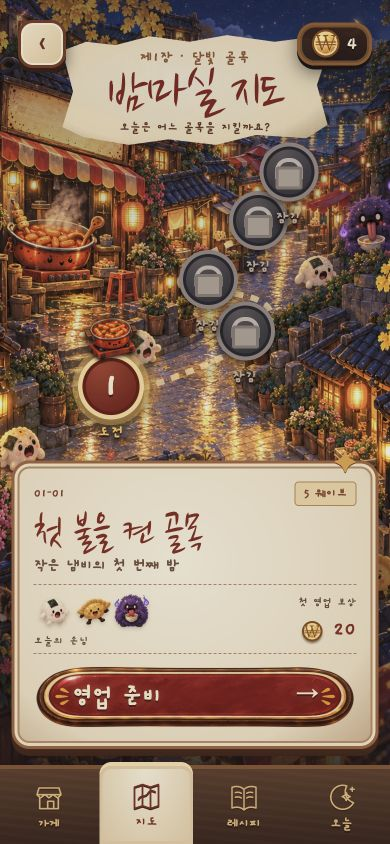
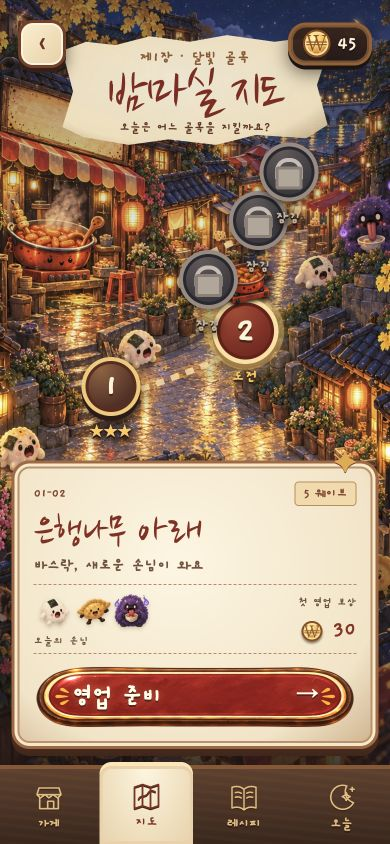
Polish compact layouts and capture gameplay validation

diff --git a/src/scenes/LabScene.ts b/src/scenes/LabScene.ts
@@ -19,7 +19,7 @@ export class LabScene extends Phaser.Scene {
   constructor() { super('Lab'); }
   create() {
     setupCamera(this);
-    const { root } = mountScreen(this, `<img class="screen-bg" src="${asset('ui/lab.webp')}" alt=""><div class="lab-shade"></div><header class="screen-header"><button class="round-button" data-action="back" aria-label="${L('뒤로', 'Back')}">←</button><span class="wallet">${coin(save.gems)}</span></header><div class="page-heading light"><p class="overline">${L('한 그릇에 담긴 노하우', 'A LITTLE BETTER, EVERY NIGHT')}</p><h1>${L('비밀 레시피', 'Secret recipes')}</h1></div><div class="lab-hero"><div><p>${L('수호 냄비', 'GUARDIAN POT')}</p><h2>Lv. ${potLevel(save.xp)}</h2><div class="xp-track"><span style="width:${save.xp % 200 / 2}%"></span></div><small>${save.xp % 200} / 200 XP</small></div></div><section class="recipe-ledger paper"><div class="ledger-header"><h2>${L('냄비 성장', 'Pot upgrades')}</h2><span>${L('영구 적용', 'PERMANENT')}</span></div><p class="ledger-note">${L('영업이 끝나도, 실력은 남아요.', 'Your recipes stay with you after every run.')}</p><div class="upgrade-list"></div><p class="purchase-status" role="status" aria-live="polite"></p><button class="primary" data-action="play">${L('영업하러 가기', 'Back to business')} <span>→</span></button></section>${nav('Lab')}`, 'lab-screen');
+    const { root } = mountScreen(this, `<img class="screen-bg" src="${asset('ui/lab.webp')}" alt=""><div class="lab-shade"></div><header class="screen-header"><button class="round-button" data-action="back" aria-label="${L('뒤로', 'Back')}">←</button><span class="wallet">${coin(save.gems)}</span></header><div class="page-heading light"><p class="overline">${L('한 그릇에 담긴 노하우', 'NIGHTLY NOTES')}</p><h1>${L('비밀 레시피', 'Secret recipes')}</h1></div><div class="lab-hero"><div><p>${L('수호 냄비', 'GUARDIAN POT')}</p><h2>Lv. ${potLevel(save.xp)}</h2><div class="xp-track"><span style="width:${save.xp % 200 / 2}%"></span></div><small>${save.xp % 200} / 200 XP</small></div></div><section class="recipe-ledger paper"><div class="ledger-header"><h2>${L('냄비 성장', 'Pot upgrades')}</h2><span>${L('영구 적용', 'PERMANENT')}</span></div><p class="ledger-note">${L('영업이 끝나도, 실력은 남아요.', 'Your recipes stay with you after every run.')}</p><div class="upgrade-list"></div><p class="purchase-status" role="status" aria-live="polite"></p><button class="primary" data-action="play">${L('영업하러 가기', 'Back to business')} <span>→</span></button></section>${nav('Lab')}`, 'lab-screen');
     bind(root, 'back', () => this.scene.start('Menu')); bind(root, 'play', () => this.scene.start('Stages')); bindNav(this, root);
     const refresh = () => {
       root.querySelector('.wallet')!.innerHTML = coin(save.gems);

diff --git a/src/scenes/StageScene.ts b/src/scenes/StageScene.ts
@@ -13,7 +13,7 @@ export class StageScene extends Phaser.Scene {
     this.selected = STAGES.find(s => !save.stages[s.id])?.id ?? 5;
     const { root } = mountScreen(this, `<img class="screen-bg" src="${asset('ui/map.webp')}" alt=""><div class="map-shade"></div>
       <header class="screen-header"><button class="round-button" data-action="back" aria-label="${L('가게로 돌아가기', 'Back to shop')}">‹</button><span class="wallet">${coin(save.gems)}</span></header>
-      <div class="page-heading light"><p class="overline">${L('제1장 · 달빛 골목', 'CHAPTER 01 · MOONLIT ALLEYS')}</p><h1>${L('밤마실 지도', 'The night map')}</h1><p>${L('오늘은 어느 골목을 지킬까요?', 'Which little alley needs you tonight?')}</p></div>
+      <div class="page-heading light"><p class="overline">${L('제1장 · 달빛 골목', 'CHAPTER 01')}</p><h1>${L('밤마실 지도', 'The night map')}</h1><p>${L('오늘은 어느 골목을 지킬까요?', 'Which little alley needs you tonight?')}</p></div>
       <div class="stage-map"><svg class="map-path" viewBox="0 0 100 100" preserveAspectRatio="none" aria-hidden="true"><path d="M25 74 C39 69 51 66 65 58 S73 43 54 43 S51 31 69 26 S79 17 78 12"/></svg>${STAGES.map(s => { const open = stageUnlocked(s.id, save.stages); return `<button class="stage-node ${open ? '' : 'locked'}" style="left:${s.x}%;top:${s.y}%" data-stage="${s.id}" ${open ? '' : 'disabled'} aria-label="${s.id}. ${s.name}${open ? '' : L(' · 이전 골목 클리어 필요', ' · Complete the previous alley')}" aria-pressed="false"><span class="node-pot">${artIcon('pot')}</span><span class="node-circle">${open ? s.id : ''}</span><span class="node-stars">${save.stages[s.id] ? '★'.repeat(save.stages[s.id]) + '☆'.repeat(3 - save.stages[s.id]) : open ? L('도전', 'PLAY') : L('잠김', 'LOCKED')}</span></button>`; }).join('')}</div>
       <section class="stage-detail paper" aria-live="polite"></section>${nav('Stages')}`, 'stage-screen');
     bind(root, 'back', () => this.scene.start('Menu')); bindNav(this, root);

diff --git a/src/style-polish.css b/src/style-polish.css
@@ -291,7 +291,7 @@ button:focus-visible { outline: 3px solid #ffd56d; outline-offset: 3px; }
 .results-overlay .paper-button { font-size:17px; }
 @keyframes pot-bob { 0%,100% { transform:translateY(0) rotate(-3deg); } 50% { transform:translateY(-5px) rotate(3deg); } }
 @media (max-height:720px) {
-  .title-block { top:4%; }
+  .title-block { top:9%; }
   .title-block h1 { font-size: clamp(56px,10vh,80px); }
   .title-sub { font-size:15px; }
   .stage-screen .page-heading,.lab-screen .page-heading { min-height:73px; padding:8px; margin-top:-46px; }
@@ -308,14 +308,20 @@ button:focus-visible { outline: 3px solid #ffd56d; outline-offset: 3px; }
   .bottom-nav button { font-size:11px; }
   .bottom-nav .nav-glyph { height:27px; }
   .bottom-nav .nav-glyph svg { width:26px; height:26px; }
-  .lab-hero { top:26%; padding:4px 8px; }
-  .lab-hero h2 { font-size:32px; }
+  .lab-hero { top:23%; padding:3px 7px; }
+  .lab-hero p { font-size:12px; }
+  .lab-hero h2 { font-size:28px; }
+  .lab-hero small { font-size:11px; }
+  .lab-hero .xp-track { height:9px; }
   .recipe-ledger { top:40%; bottom:67px; padding:13px 14px 10px; }
   .ledger-header h2 { font-size:28px; }
   .ledger-note { font-size:12px; }
   .upgrade-row { min-height:65px; }
   .upgrade-copy h3 { font-size:18px; }
   .upgrade-copy p { font-size:12px; }
+  html[lang=en] .upgrade-copy h3 { font-size:16px; }
+  html[lang=en] .upgrade-copy small { font-size:11px; }
+  html[lang=en] .upgrade-copy p { font-size:11px; }
   .upgrade-buy { min-width:61px; }
   .recipe-ledger > .primary { min-height:43px; font-size:19px; }
   .overlay-paper { padding:16px 19px; }

diff --git a/src/main.ts b/src/main.ts
@@ -13,6 +13,9 @@ import { StageScene } from './scenes/StageScene';
 import { LabScene } from './scenes/LabScene';
 import { setupNative } from './native';
 import { sfx } from './audio';
+import { lang } from './i18n';
+
+document.documentElement.lang = lang;
 
 const game = new Phaser.Game({
   type: Phaser.AUTO,

diff --git a/docs/validation.md b/docs/validation.md
@@ -2,10 +2,10 @@
 
 - Node 24에서 `npm run build` 성공 (TypeScript 검사 포함).
 - `npm test`: 4개 테스트 통과. 구버전 저장 마이그레이션, 손상 데이터, 다음 골목 잠금, 최초 보상 중복 방지, 별/레벨 경계값.
-- 브라우저 실제 UI로 메뉴 → 지도 → 첫 골목 5웨이브 완료 → 별 3개, 엽전 41, XP 232, 냄비 Lv.2 → 2번 골목 해금 확인.
+- 브라우저 실제 UI로 메뉴 → 지도 → 첫 골목 5웨이브 완료 → 별 3개, 엽전 41, XP 194 획득 → 2번 골목 해금 확인. 앞선 시험 플레이의 XP가 합산되어 냄비가 Lv.2가 됨.
 - 레시피 선택 후 공격 수치 증가 확인. 2배속 플레이 확인.
-- 매운맛 강화 구매: 엽전 41 → 33, 강화 Lv.0 → Lv.1. 페이지 새로고침 후 잔액/강화/냄비 레벨 유지 확인.
-- 390×844 한국어 메뉴/지도/성장/선택/결과 UI, 320×568 영어 성장 UI 확인.
+- 매운맛 강화 구매: 엽전 8개 사용, 강화 Lv.0 → Lv.1. 페이지 새로고침 후 잔액/강화/냄비 레벨 유지 확인.
+- 390×844 한국어 메뉴/지도/성장/선택/전투/결과 UI와 320×568 영어 메뉴/지도/성장 UI 확인. 영문 상단 문구가 잔액 표시와 겹치지 않도록 조정함.
 - 웹 실행 중 수집한 오류 로그 없음.
 
 아래 이미지는 생성 시안이 아닌 실제 구현 화면의 캡처입니다.
@@ -14,8 +14,8 @@
 | --- | --- | --- |
 | ![메뉴](screenshots/menu.png) | ![스테이지](screenshots/stages.png) | ![성장](screenshots/growth.png) |
 
-| 레시피 선택 | 실제 클리어 결과 |
-| --- | --- |
-| ![선택](screenshots/recipe-choice.png) | ![결과](screenshots/results.png) |
+| 레시피 선택 | 실제 전투 | 실제 클리어 결과 |
+| --- | --- | --- |
+| ![선택](screenshots/recipe-choice.png) | ![전투](screenshots/combat.png) | ![결과](screenshots/results.png) |
 
 네이티브 기기 빌드/서명과 3~5번 골목의 장시간 밸런스 검증은 이번 웹 검증 범위에 포함하지 않았습니다.
